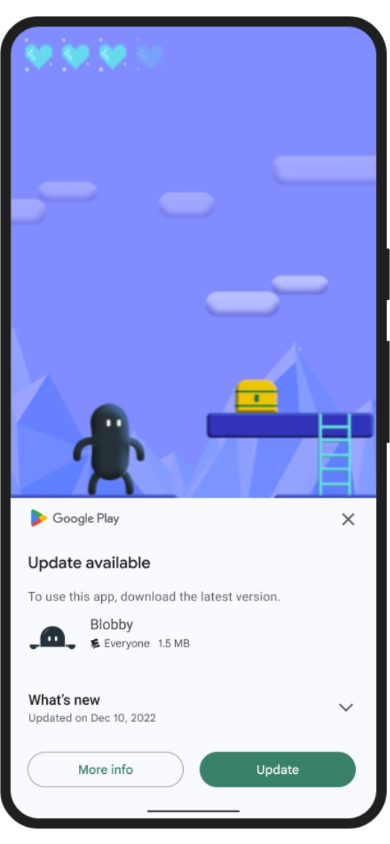
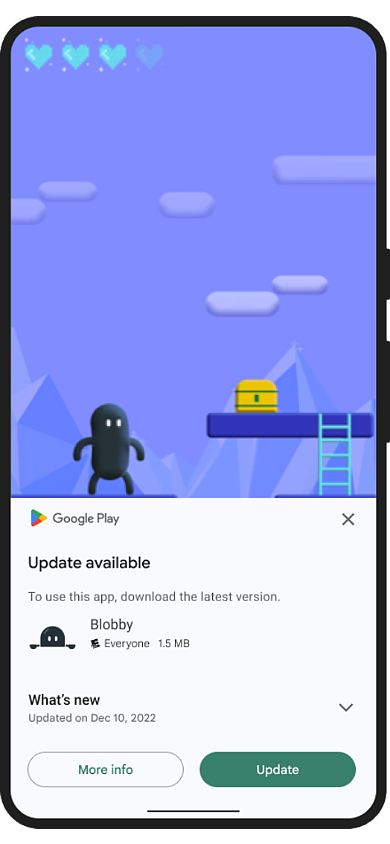
release: prepare v2.0.2 with improved pub.dev metadata and updated screenshots

diff --git a/CHANGELOG.md b/CHANGELOG.md
@@ -1,3 +1,9 @@
+## 2.0.2
+
+- Added `homepage` and `issue_tracker` fields to pubspec.yaml for pub.dev sidebar links
+- Updated pub.dev topics for better discoverability.
+- Updated screenshots for Android immediate and flexible update flow
+
 ## 2.0.1
 
 - Added pub.dev screenshots for iOS, Android immediate, and Android flexible update flows
@@ -24,3 +30,19 @@
 - Enabled PrivacyInfo.xcprivacy resource bundle
 - Fixed iOS unit tests to match actual plugin API
 - Shortened package description to meet pub.dev requirements
+
+## 1.0.3
+
+- Restructured plugin with federated architecture pattern
+
+## 1.0.2
+
+- Updated README and package metadata
+
+## 1.0.1
+
+- Minor documentation fixes
+
+## 1.0.0
+
+- Initial release: iOS in-app update support via SKStoreProductViewController (StoreKit)

diff --git a/README.md b/README.md
@@ -6,6 +6,14 @@ On **iOS**, it presents the App Store product page using `SKStoreProductViewCont
 
 ---
 
+## Screenshots
+
+| iOS | Android Immediate | Android Flexible |
+|-----|------------------|-----------------|
+| ![iOS in-app update](assets/screenshots/ios-in-app-update.png) | ![Android immediate update](assets/screenshots/android-immediate-update.png) | ![Android flexible update](assets/screenshots/android-flexible-update.png) |
+
+---
+
 ## Features
 
 - iOS: Show the App Store update prompt using `SKStoreProductViewController` without navigating users away from the app
@@ -25,7 +33,7 @@ Add the package to your `pubspec.yaml`:
 
 ```yaml
 dependencies:
-  in_app_update_flutter: ^2.0.1
+  in_app_update_flutter: ^2.0.2
 ```
 
 Then run:
